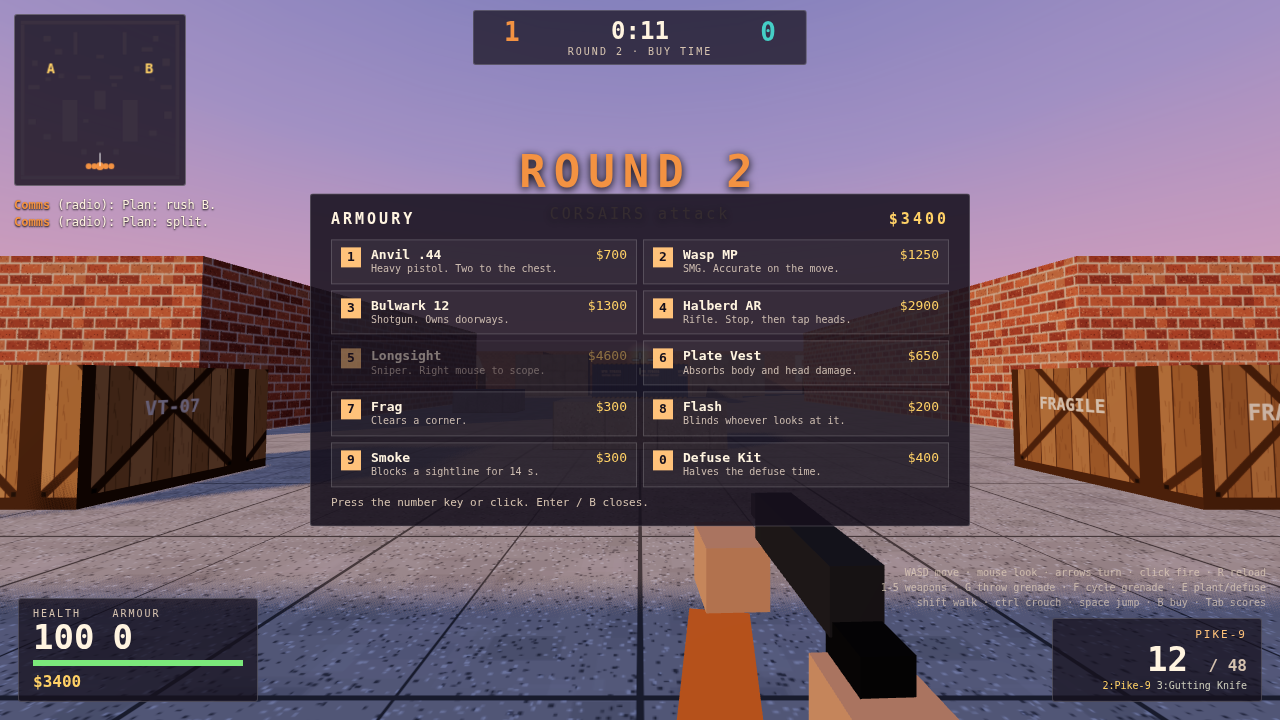
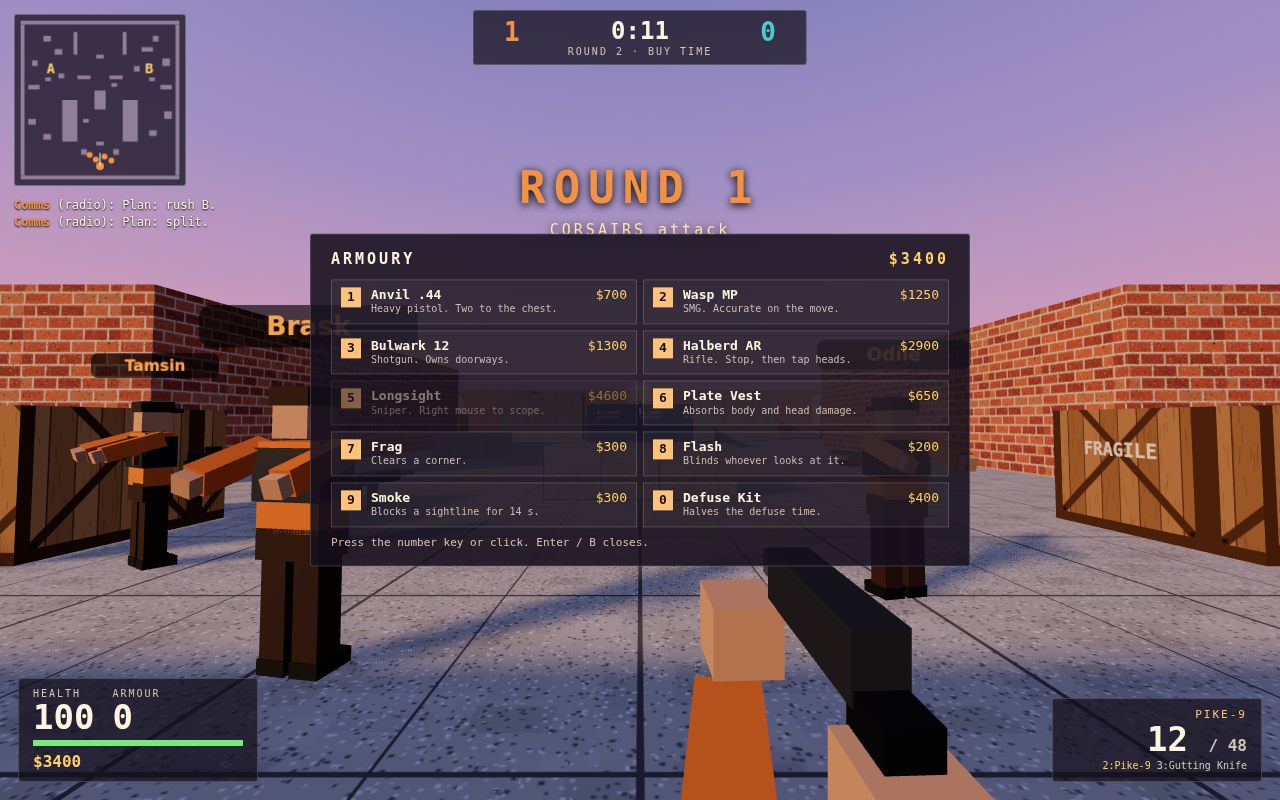
shot tweaks

diff --git a/game/src/shots.js b/game/src/shots.js
@@ -26,6 +26,7 @@ export function applyShot(name) {
   seedRandom(1234);
   const p = G.player;
   p.money = 2650;
+  G.radio.length = 0; G.feed.length = 0; G.banner.until = -1;
   if (name === 'cover') {
     liveRound(78);
     G.score = [3, 2]; G.round = 6;
@@ -81,7 +82,7 @@ export function applyShot(name) {
     // wide: free camera over the whole map, bots spread along their routes
     liveRound(64);
     G.score = [2, 2]; G.round = 5;
-    G.ui.free = { x: 0, y: 62, z: 40, pitch: -1.2, yaw: 0, fov: 62 };
+    G.ui.free = { x: 0, y: 40, z: 33, pitch: -1.05, yaw: 0, fov: 60 };
     const spots = [[-22, 22], [-8, 14], [0, 3], [8, 12], [22, 20], [-25, -8], [-12, -14], [26, -8], [6, -28], [-3, -25]];
     spots.forEach(([x, z], i) => pose(i, x, z, i < 5 ? x * 0.5 : 0, i < 5 ? -30 : 20, i % 3 ? 'wasp' : 'halberd'));
     G.actors[0].alive = true;
